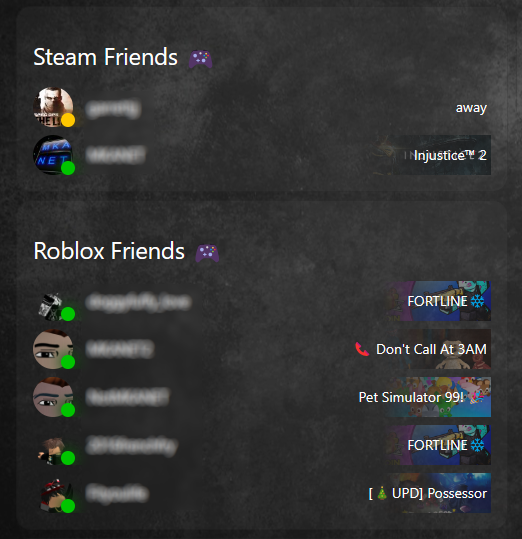
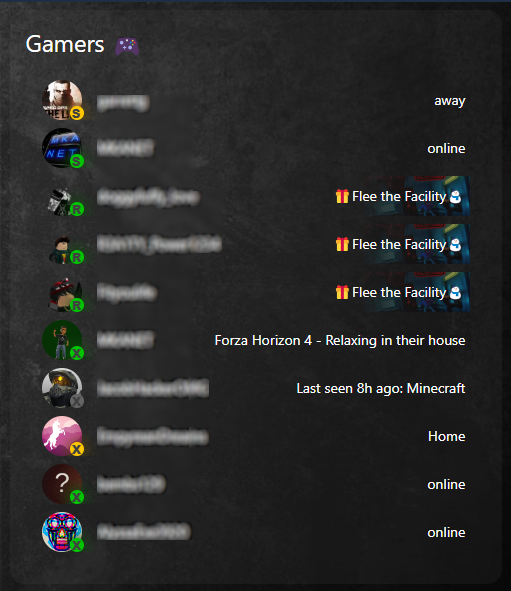
Added gaming network overlay feature

diff --git a/dist/kb-steam-card.js b/dist/kb-steam-card.js
@@ -191,17 +191,18 @@ const J=window.ShadowRoot&&(void 0===window.ShadyCSS||window.ShadyCSS.nativeShad
     </ha-card>
   `;
 }
-setConfig(t){if(!t.entities&&!t.entity)throw new Error("You need to define either a single entity or an entities field");this.config=t}getCardSize(){return this.config.entities?this.config.entities.length+1:2}_toggle(t){this.hass.callService("homeassistant","toggle",{entity_id:t.entity_id})}createEntitiesCard(t){if("string"==typeof t){const e=[];Object.values(this.hass.states).forEach((s=>{s.entity_id.startsWith(t)&&e.push(s.entity_id)})),t=e}if(this.config.online_only){const e=[];t.forEach((t=>{const s=this.hass.states[t];s&&s.state&&"offline"!==s.state&&e.push(t)})),t=e}return [...t.map(((e, s) => {const i=this.hass.states[e];return i?M`
+setConfig(t){if(!t.entities&&!t.entity)throw new Error("You need to define either a single entity or an entities field");this.config=t}getCardSize(){return this.config.entities?this.config.entities.length+1:2}_toggle(t){this.hass.callService("homeassistant","toggle",{entity_id:t.entity_id})}createEntitiesCard(t){if("string"==typeof t){const e=[];Object.values(this.hass.states).forEach((s=>{s.entity_id.startsWith(t)&&e.push(s.entity_id)})),t=e}if(this.config.online_only){const e=[];t.forEach((t=>{const s=this.hass.states[t];s&&s.state&&"offline"!==s.state&&e.push(t)})),t=e}return [...t.map(((e, s) => {const i=this.hass.states[e];let n='';if(this.config.gaming_network_overlay){if(i.entity_id.includes('roblox')){n='R'}else if(i.entity_id.includes('steam')){n='S'}else if(i.entity_id.endsWith('_status')){n='X';if(i.state.toLowerCase() === 'offline' || i.state.toLowerCase().endsWith(': online')){i.state = 'online';}}}return i?M`
               <div
-                class="kb-steam-multi kb-clickable ${s===t.length-1?"kb-last":""} ${i.state}"
+                class="kb-steam-multi kb-clickable ${s===t.length-1?"kb-last":""} ${i.state === 'Home' ? 'Home' : /.*_status$/.test(i.entity_id) && !/last seen/i.test(i.state) ? 'online' : i.state.toLowerCase()}"
                 @click=${()=>this.handlePopup(i)}
               >
                 <div class="kb-steam-user">
                   <img src="${i.attributes.entity_picture}" class="kb-steam-avatar" />
-                  <div class="kb-steam-username">${i.attributes.friendly_name}</div>
+                  <div class="kb-steam-username">${i.attributes.friendly_name.replace(' Status', '')}</div>
                 </div>
                 <div class="kb-steam-value">${i.attributes.game||i.state}</div>
-                ${i.attributes.game&&this.config.game_background?M` <img src="${i.attributes.game_image_header}" class="kb-steam-game-bg" /> `:""}
+                ${i.attributes.game&&this.config.game_background?M` <img src="${i.attributes.game_image_header}" class="kb-steam-game-bg" /> ` : ""}
+                <div class="kb-steam-icon-overlay">${n}</div>
               </div>
             `:M` <div class="not-found">Entity ${e} not found.</div> `}))]}handlePopup(t){const e=t.entity_id,s=new Event("hass-more-info",{composed:!0});s.detail={entityId:e},this.dispatchEvent(s)}createEntityCard(t){return M`
       <div class="kb-container kb-clickable" @click=${()=>this.handlePopup(t)}>
@@ -225,13 +226,15 @@ setConfig(t){if(!t.entities&&!t.entity)throw new Error("You need to define eithe
         </div>
         ${this.renderCurrentlyPlayingGame(t)}
       </div>
-    `}formatLastOnline(t){return rt(new Date(t))}renderUserAvatar(t){return t.attributes.entity_picture?M` <img src="${t.attributes.entity_picture}" class="kb-steam-avatar" /> `:M` <ha-icon icon="${t.attributes.icon}" class="kb-steam-avatar"></ha-icon> `}renderCurrentlyPlayingGame(t){return t.attributes.game?M`
+    `}formatLastOnline(t){return rt(new Date(t))}renderUserAvatar(t){return t.attributes.entity_picture?M` <img src="${t.attributes.entity_picture}" class="kb-steam-avatar" /> `:M` <ha-icon icon="${t.attributes.icon}" class="kb-steam-avatar"></ha-icon> `}renderCurrentlyPlayingGame(t) {
+      const playingText = t.state.toLowerCase() === 'playing' ? 'Playing ' : '';
+      return t.attributes.game ? M`
           <div class="kb-steam-now-playing">
             <div class="label">Now Playing</div>
-            <div class="game-title">${t.attributes.game}</div>
+            <div class="game-title">${playingText}${t.attributes.game}</div>
             <img class="game-img" src="${t.attributes.game_image_header}" />
           </div>
-        `:M``}static get styles(){return K`
+        `:M``;}static get styles(){return K`
       /* :host {
       } */
 
@@ -373,6 +376,9 @@ setConfig(t){if(!t.entities&&!t.entity)throw new Error("You need to define eithe
         background-image: radial-gradient(top, #616161 0%, #616161 20%, #535353 60%);
         content: '';
         z-index: 3;
+        display: flex; /* Make it a flex container */
+        align-items: center; /* Center children vertically */
+        justify-content: center; /* Center children horizontally */
       }
 
       .kb-steam-multi.online::before {
@@ -390,9 +396,30 @@ setConfig(t){if(!t.entities&&!t.entity)throw new Error("You need to define eithe
         background: #FFC700;
       }
 
+      .kb-steam-multi.Home::before {
+        box-shadow: 0 0 1em #1c1c17, 0 0 1em #AF8600;
+        background: #FFC700;
+      }
+
       .kb-last {
         margin-bottom: 0;
       }
+      
+      .kb-steam-multi .kb-steam-icon-overlay {
+        position: absolute;
+        top: 82%;
+        left: calc(2.37em + 1px);
+        transform: translateY(-50%);
+        z-index: 4;
+        font-size: 0.88em;
+        font-weight: 800;
+        color: rgb(64, 64, 64);
+        pointer-events: none;
+        font-family: "Arial Black", Gadget, sans-serif;
+      }
+
+      .kb-steam-multi.playing .kb-steam-value { color: green; }
+
     `}};var ot;
 /**
 @license

diff --git a/README.md b/README.md
@@ -1,12 +1,57 @@
 
-<div align="center">
-  <h4 style="font-size: 1.5em;">A Home Assistant card for Steam and Roblox integrations</h4>
+<div>
+  <h3 style="font-size: 2em; font-weight: bold;">Gamer status card for <a href="https://www.home-assistant.io/integrations/steam_online/" style="text-decoration: none;">Steam</a>, <a href="https://github.com/jdeath/Roblox-Homeassistant/" style="text-decoration: none;">Roblox</a> and <a href="https://www.home-assistant.io/integrations/xbox/" style="text-decoration: none;">Xbox </a> integrations!</h3>
 </div>
 <br>
 
-## Enhanced with <a href="https://github.com/jdeath/Roblox-Homeassistant/" style="text-decoration: none;">Roblox Custom Integration</a> support!
-![New Screenshot](/images/Screenshot1.png)
 
+
+## Usage Example 1
+
+```yaml
+type: entities
+entities:
+  - type: custom:kb-steam-card
+    entities:
+      - sensor.steam_<steam-id>
+title: Steam 🎮
+```
+![Single Entity](images/Single-Entity.png)
+<br>
+<br>
+
+
+## Usage Example 2
+Note: When adding xbox entities, use the xbox sensors that end with `_status` in the sensor name.
+- To show game header image as background, add `game_background: true`:<br>
+- To show only users that are online, add `online_only: true`:<br>
+- To show gaming network overlays, such a `S`, `R`, and `X`  for <b><i>Steam, Roblox, Xbox</i></b> network entities, add `gaming_network_overlay: true`&nbsp;&nbsp;<i>(default = false)</i>:
+
+```yaml
+type: entities
+entities:
+  - type: custom:kb-steam-card
+    game_background: true
+    online_only: true
+    gaming_network_overlay: true
+    entities:
+      - sensor.steam_<steam-id>
+      - sensor.steam_<steam-id>
+      - sensor.steam_<steam-id>
+      - sensor.steam_<steam-id>
+      - sensor.roblox_<roblox-id>
+      - sensor.roblox_<roblox-id>
+      - sensor.roblox_<roblox-id>
+      - sensor.<xbox-gamertag>_status
+      - sensor.<xbox-gamertag>_status
+      - sensor.<xbox-gamertag>_status
+      - sensor.<xbox-gamertag>_status
+      - sensor.<xbox-gamertag>_status
+title: Gamers 🎮
+```
+![New Screenshot](images/Screenshot1.png)
+<br>
+<br>
 
 ## More Screenshots
 
@@ -26,12 +71,12 @@
 ## Installation
 
 ### Prerequisites
-You need at least one [steam integration](https://www.home-assistant.io/integrations/steam_online/) to use with this card.
+You need to install at least one of the following gaming network integrations: <a href="https://www.home-assistant.io/integrations/steam_online/" style="text-decoration: none;">Steam</a>, <a href="https://github.com/jdeath/Roblox-Homeassistant/" style="text-decoration: none;">Roblox</a>, <a href="https://www.home-assistant.io/integrations/xbox/" style="text-decoration: none;">Xbox </a> to use with this card.
 
 ### HACS (recommended)
 
 1. Go to the Community Store.
-2. Search for `steam card`.
+2. Search for `steam card plus`.
 3. Press `Install`.
 
 ### Manual Installation
@@ -40,60 +85,4 @@ You need at least one [steam integration](https://www.home-assistant.io/integrat
 resources:
   url: '<url-to-card.js>'
   type: module
-```
-
-## Usage
-
-for a single user card, use `entity`:
-
-```yaml
-entity: sensor.steam_<steam-id>
-type: 'custom:kb-steam-card'
-```
-
-you can change the username using the following:
-
-```yaml
-entity: sensor.steam_<steam-id>
-friendly_name: Myself
-type: 'custom:kb-steam-card'
-```
-
-for multiple users, use the `entities` attribute:
-![](screenshots/multi.png)
-
-```yaml
-entities:
-  - sensor.steam_<steam-id>
-  - sensor.steam_<steam-id>
-  - sensor.steam_<steam-id>
-type: 'custom:kb-steam-card'
-```
-
-you can also use a prefix selector to select all steam sensors:
-
-```yaml
-type: 'custom:kb-steam-card'
-entities: sensor.steam_
-```
-
-to show only **online users**, add the `online_only` attribute:
-
-```yaml
-type: 'custom:kb-steam-card'
-entities: sensor.steam_
-online_only: true
-```
-
-you can also show the game header image as background with `game_background: true`:
-![](screenshots/game-bg.png)
-
-```yaml
-entities:
-  - sensor.steam_<steam-id>
-  - sensor.steam_<steam-id>
-  - sensor.steam_<steam-id>
-friendly_name: hello
-game_background: true
-type: 'custom:kb-steam-card'
 ```
